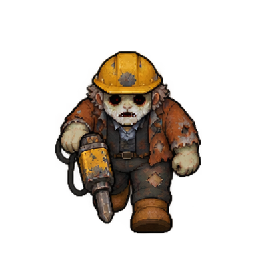
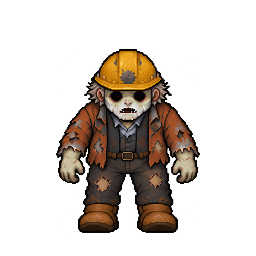
Simplify Demolisher animation reference with empty hands

Changed region(s): [[0.1875, 0.1875, 0.7812, 0.9375]]

diff --git a/docs/dungeons/chefes-e-balanceamento/RELATORIO.md b/docs/dungeons/chefes-e-balanceamento/RELATORIO.md
@@ -47,3 +47,7 @@ A suíte completa passou em 1.080 testes, em 117 arquivos. TypeScript e build de
 ## Frentes para animação
 
 Os cinco chefes foram exportados em PNG RGBA de 256 × 256 pixels, com o mesmo alinhamento. Os arquivos estão em [frentes-256](frentes-256/LEIA.md). Também foram criados um zumbi entregador e uma zumbi moradora, ambos frontais, em PNG RGBA de 256 × 256. São fontes para o usuário animar; a caminhada dos inimigos no jogo permanece com os atlas existentes até a integração das animações definitivas.
+
+### Revisão da frente do Demolidor
+
+A pedido do usuário, a frente de referência foi redesenhada sem equipamento, com mãos vazias e os pés apoiados, para simplificar a geração da caminhada. O PNG continua em 256 × 256. O atlas de caminhada do jogo permanece provisório até a integração das animações definitivas. [Prompt atualizado](frentes-256/PROMPT-DEMOLIDOR.md).

diff --git a/docs/dungeons/chefes-e-balanceamento/frentes-256/PROMPT-DEMOLIDOR.md b/docs/dungeons/chefes-e-balanceamento/frentes-256/PROMPT-DEMOLIDOR.md
@@ -1,0 +1,5 @@
+# Demolidor sem equipamento — prompt atualizado
+
+Use o PNG como referência. Zumbi operário robusto, capacete amarelo envelhecido, cabelos curtos e claros, pele pálida e olhos fundos. Jaqueta de trabalho marrom alaranjada, rasgada e suja, sobre camisa escura; calça escura deteriorada e botas marrons pesadas. As duas mãos estão vazias, com braços ligeiramente afastados do tronco. Preserve a identidade, o traje e a silhueta do PNG. Anime uma caminhada pesada, com alternância natural das pernas e balanço discreto dos braços.
+
+Estilo pixel art do After Rain, perspectiva de jogo de cima em 2.5D, fundo transparente. Cada frame deve medir 256 × 256 pixels, mantendo o enquadramento e a âncora (128, 235). Quatro frames por direção: sul, oeste, leste e norte. Se usar spritesheet, quatro colunas e quatro linhas, totalizando 1024 × 1024 pixels, uma direção por linha nessa ordem.

diff --git a/docs/dungeons/chefes-e-balanceamento/frentes-256/LEIA.md b/docs/dungeons/chefes-e-balanceamento/frentes-256/LEIA.md
@@ -14,3 +14,5 @@ Para as animações:
 
 Zumbis comuns adicionais: entregador e moradora.
 A referência de origem é (128, 235); a arte opaca termina dois pixels acima desse ponto.
+
+Revisão do Demolidor: a frente foi redesenhada sem o martelete, com mãos vazias e postura neutra para facilitar a animação. Use esta versão como referência.
